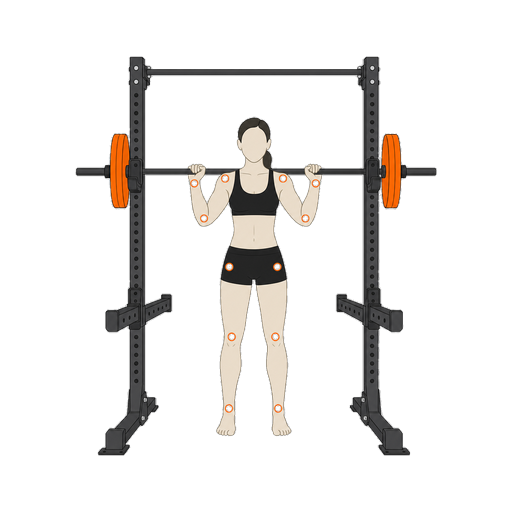
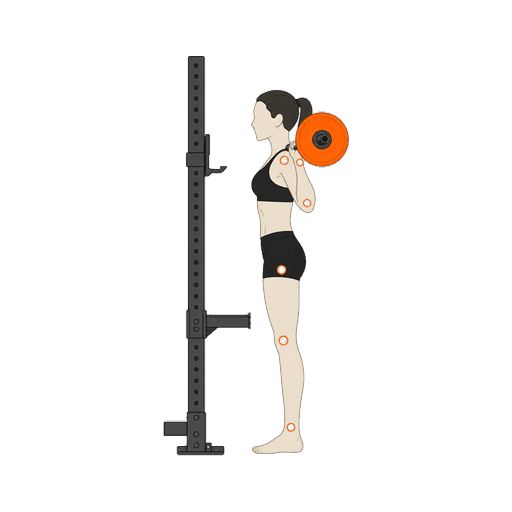
Add files via upload

Changed region(s): [[0.125, 0.0938, 0.875, 0.9062]]

diff --git a/sw.js b/sw.js
@@ -10,10 +10,12 @@
    bump ART below when that happens; activate then clears the old cache on every
    device without anyone pressing anything. */
 
-const VERSION = "31";
+const VERSION = "32";
 const SHELL   = "ironwork-shell-v" + VERSION;
-const ART     = "ironwork-art-v3";   /* bumped for the round 8 redraw — the
-                                        activate handler deletes v1 automatically */
+const ART     = "ironwork-art-v4";   /* bump this whenever a diagram is redrawn
+                                        under an existing filename — the activate
+                                        handler then clears the old cache on every
+                                        device without anyone pressing anything */
 
 const PRECACHE = ["./", "./index.html", "./manifest.webmanifest", "./icon.svg"];
 
